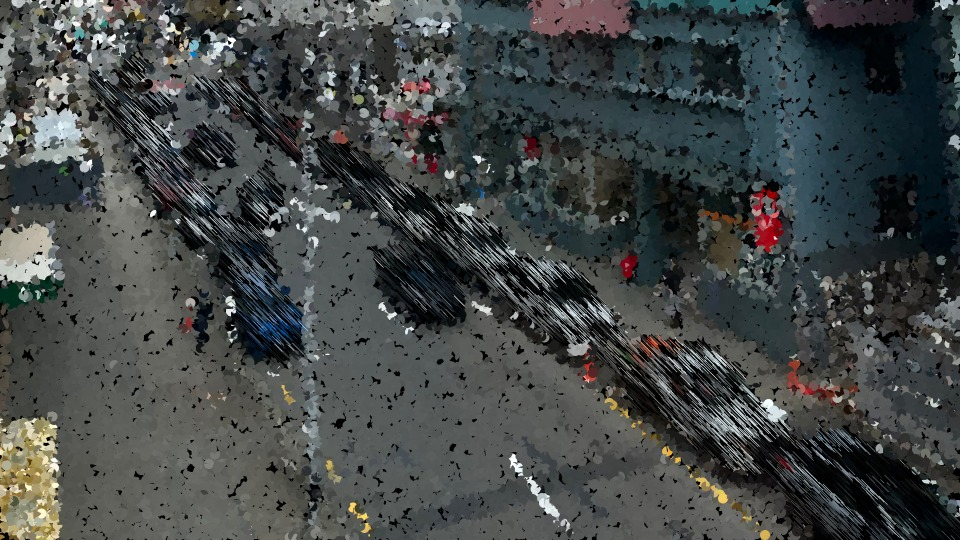
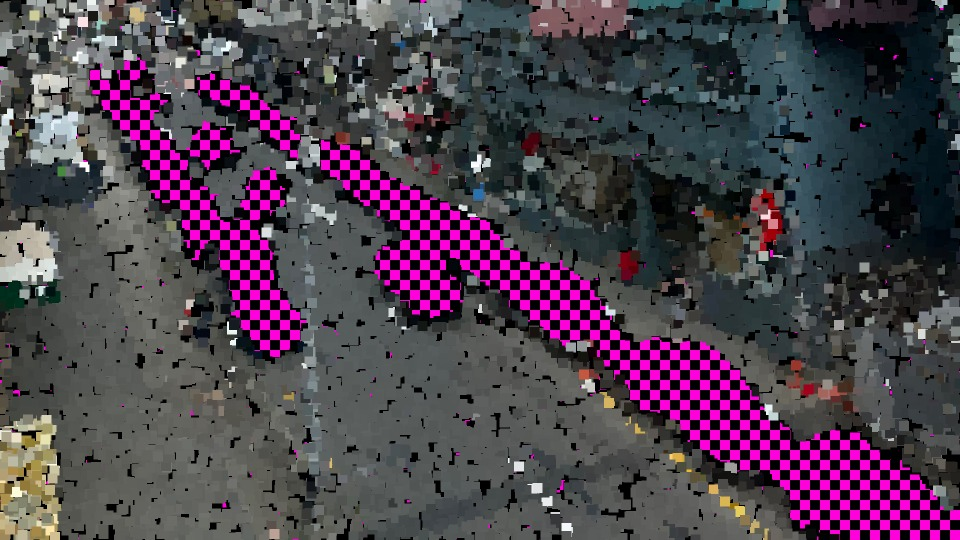
layerings and missing textures

diff --git a/sketch.js b/sketch.js
@@ -2,6 +2,8 @@ let sourceImg=null;
 let maskImg=null;
 let renderCounter=0;
 
+let layerCount = 0;
+
 // change these three lines as appropiate
 let sourceFile = "input_1.jpg";
 let maskFile   = "mask_1.png";
@@ -11,78 +13,74 @@ function preload() {
   sourceImg = loadImage(sourceFile);
   maskImg = loadImage(maskFile);
   //console.log(p5.Renderer2D);
-
 }
-function setup () {
+
+function setup() {
   let main_canvas = createCanvas(1920, 1080);
   main_canvas.parent('canvasContainer');
 
   imageMode(CENTER);
   angleMode(DEGREES);
   noStroke();
-  //background(100, 0, 200);
   background(0, 0, 0);
   sourceImg.loadPixels();
   maskImg.loadPixels();
 }
 
-function draw () {
+function draw() {
+  //draw missing texture background
+  if (layerCount == 0) {
+    let fade = map(renderCounter, 0, 100, 255, 0);
 
-  if (renderCounter == 0) {
-    //missing();
-  }
+    missingTexture();
+    fill(0, 0, 0, fade);
+    rect(0, 0, width, height);
 
-  for(let i=0;i<4000;i++) {
+    renderCounter++;
+  } else if (layerCount == 1) {
+    for(let i=0;i<10;i++) {
+      randPixel(0);
+    }
+
+    renderCounter++;
+  } else if (layerCount == 2) {
+    for(let i=0;i<10;i++) {
+        randPixel();
+    	}
+
+    renderCounter++;
+  } else if (layerCount == 3) {
     
-    let x = floor(random(sourceImg.width));
-    let y = floor(random(sourceImg.height));
-    let pixData = sourceImg.get(x, y);
-    let maskData = maskImg.get(x, y);
 
-    let aStart = floor(random(360));
-    let aStop = floor(random(360));
-
-    let line1 = floor(random(20));
-    let line2 = floor(random(20));
-
-    fill(pixData);
-    if(maskData[0] < 128) {
-      let pointSize = 20;
-      //ellipse(x, y, pointSize, pointSize);
-      arc(x, y, pointSize, pointSize, aStart, aStop);
-      // push();
-      // rectMode(CENTER);
-      // strokeWeight(0.5);
-      // stroke(0);
-      // rect(x, y, pointSize);
-      // pop();
-    }
-    else {
-      // let pointSize = 3;
-      // ellipse(x, y, pointSize, pointSize);
-      push();
-      stroke(pixData);
-      line(x + line1, y + line1, x - line2, y - line2);
-      pop();
-    }
-  }
-  renderCounter = renderCounter + 1;
-  if(renderCounter > 10) {
+    renderCounter++;
+  } else if (layerCount == 20) {
     console.log("Done!")
     noLoop();
     // uncomment this to save the result
     // saveArtworkImage(outputFile);
   }
+
+
+  if (layerCount == 0 && renderCounter > 100) {
+    layerCount = 1;
+    renderCounter = 0;
+  } else if (layerCount == 1 && renderCounter > 1500) {
+    layerCount = 2;
+    renderCounter = 0;
+  } else if (layerCount == 2 && renderCounter > 1500) {
+    layerCount = 20;
+    renderCounter = 0;
+  }
+
+  console.log("Layer: " + layerCount + "  Render: " + renderCounter);
+  
 }
 
-function missing() {
-  push();
-  noStroke();
-
-  fill(255, 0, 220);
-  let boxSize = 30;
+function missingTexture() {
+  let boxSize = 20;
   let gap = boxSize*2;
 
+  fill(255, 0, 220); //missing texture purp
   for(let i = 0; i <= width; i+=gap){
     for(let j = 0; j <= height; j+=gap)
     rect(i, j, boxSize, boxSize);
@@ -92,8 +90,29 @@ function missing() {
     for(let j = 0; j <= height; j+=gap)
     rect(i + boxSize, j + boxSize, boxSize, boxSize);
   }
-  
-  pop();
+}
+
+function randPixel(filler) {
+  let x = floor(random(sourceImg.width));
+  let y = floor(random(sourceImg.height));
+  let pixData = sourceImg.get(x, y);
+  let maskData = maskImg.get(x, y);
+
+  if (filler === undefined) {
+    fill(pixData);
+  } else {
+    fill(filler)
+  }
+
+  if(maskData[0] < 128) {
+    let pointSize = 20;
+    push();
+    rectMode(CENTER);
+    // strokeWeight(0.5);
+    // stroke(0);
+    rect(x, y, pointSize);
+    pop();
+  }
 }
 
 function keyTyped() {
